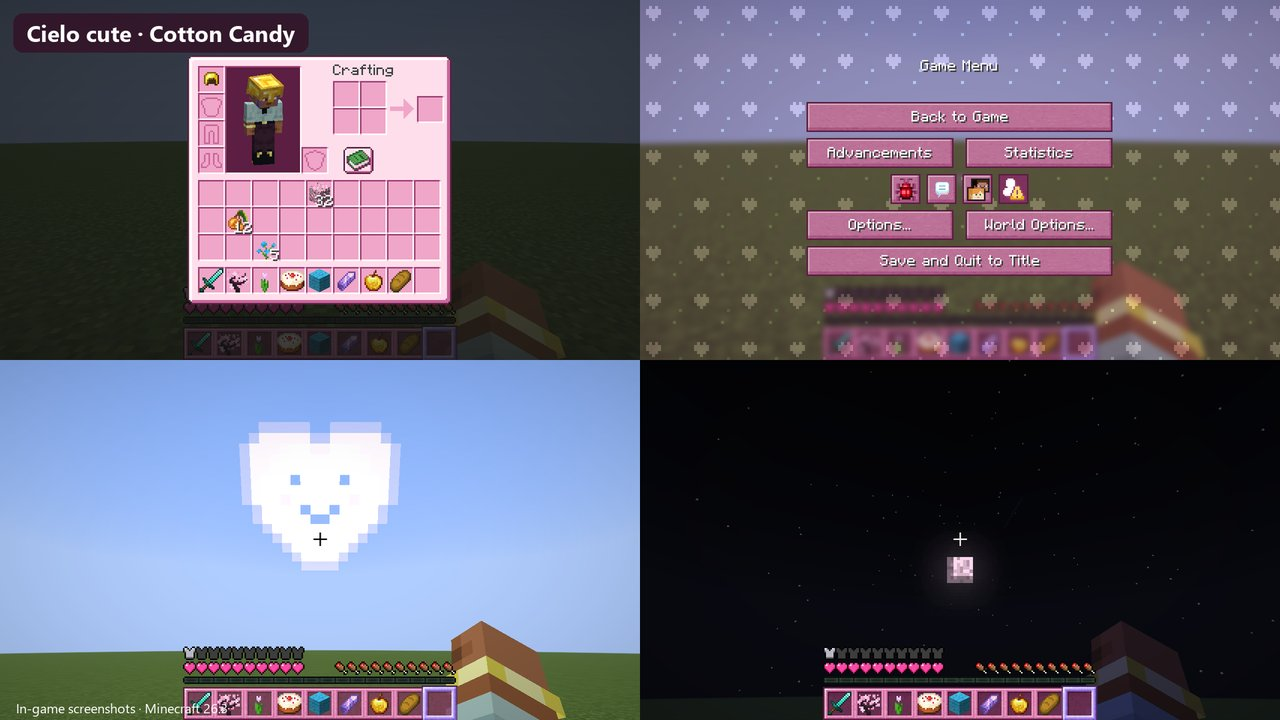
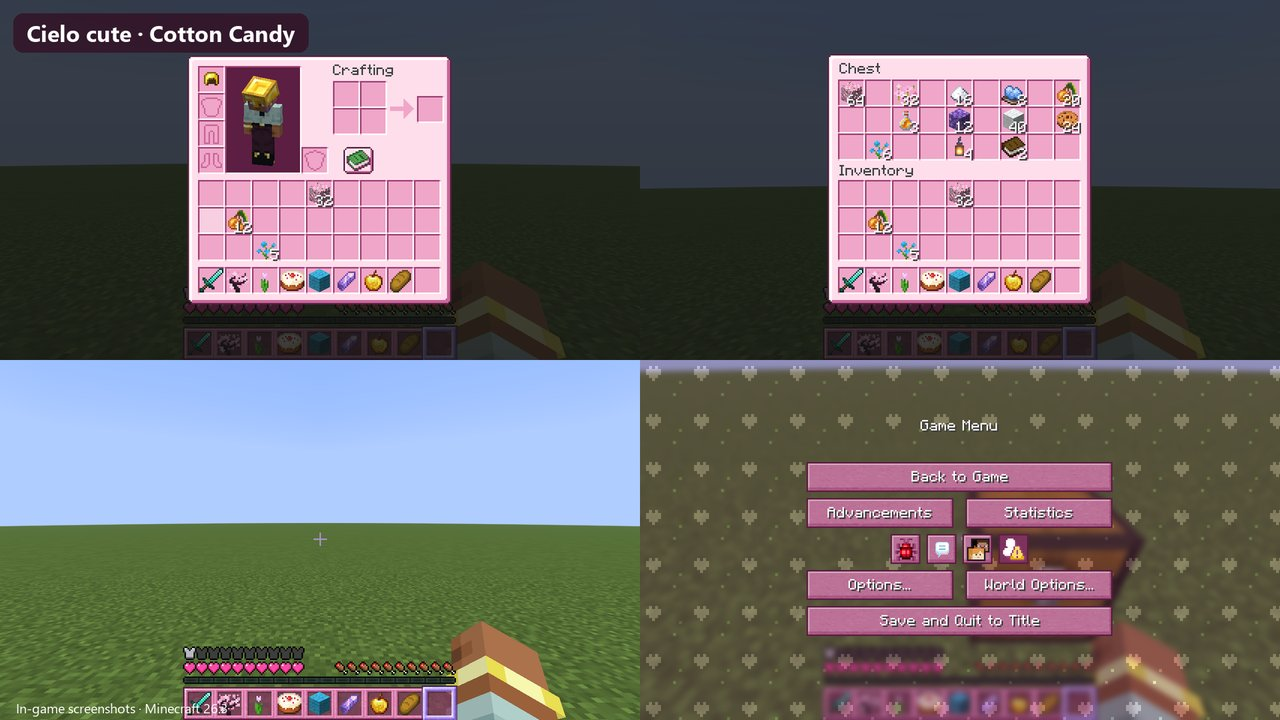
Cielo cute 2.1: solo la interfaz

diff --git a/cielo-cute/index.html b/cielo-cute/index.html
@@ -57,8 +57,8 @@
             <div class="pj-text">
                 <p class="badge mc"><svg><use href="#i-cube"/></svg>Minecraft · <span lang="es">paquete de texturas</span><span lang="en">resource pack</span></p>
                 <h1>Cielo cute</h1>
-<p class="lead" lang="es">Tu inventario, tus botones y tu barra rápida en 18 colores de cielo, con un sol con carita.</p>
-<p class="lead" lang="en">Your inventory, buttons and hotbar in 18 sky colors, with a smiling sun.</p>
+<p class="lead" lang="es">Tu inventario, tus botones y tu barra rápida en 18 colores de cielo.</p>
+<p class="lead" lang="en">Your inventory, buttons and hotbar in 18 sky colors.</p>
                 <ul class="stack"><li>Python</li><li>pixel art</li><li>26.3</li><li>1.21.1</li><li>18 temas</li></ul>
                 <div class="cta">
                     <a class="btn primary" href="https://github.com/ccrccne/cielo-cute/releases/latest" target="_blank" rel="noopener"><span lang="es">Descargar</span><span lang="en">Download</span> ↗</a>
@@ -69,13 +69,13 @@
         </section>
 
         <section class="pj-about">
-<p class="pj-intro" lang="es">Un paquete de texturas que cambia el gris de la interfaz de Minecraft por colores de cielo. Hay 18 temas en 5 colecciones (Pastel Dreams, Celestial, Fantasy, Minimal Elegance y Golden Hour), y cada uno trae su sol con carita, una luna a juego y un dibujito en el fondo de los menús. No toca los bloques ni los objetos.</p>
-<p class="pj-intro" lang="en">A resource pack that swaps Minecraft's grey interface for sky colors. There are 18 themes in 5 collections (Pastel Dreams, Celestial, Fantasy, Minimal Elegance and Golden Hour), each with its own smiling sun, a matching moon and a little pattern behind the menus. Blocks and items stay the same.</p>
+<p class="pj-intro" lang="es">Un paquete de texturas que cambia el gris de la interfaz de Minecraft por colores de cielo. Hay 18 temas en 5 colecciones (Pastel Dreams, Celestial, Fantasy, Minimal Elegance y Golden Hour), y cada uno trae un dibujito en el fondo de los menús. Solo cambia la interfaz: los bloques, el cielo, el sol y la luna se quedan igual.</p>
+<p class="pj-intro" lang="en">A resource pack that swaps Minecraft's grey interface for sky colors. There are 18 themes in 5 collections (Pastel Dreams, Celestial, Fantasy, Minimal Elegance and Golden Hour), each with a little pattern behind the menus. Only the interface changes: blocks, the sky, the sun and the moon stay the same.</p>
             <div class="feats">
                 <div class="card feat"><svg class="feat-star"><use href="#star"/></svg><h3><span lang="es">18 temas</span><span lang="en">18 themes</span></h3><p lang="es">De Cotton Candy a Starry Night, cada uno con su personalidad.</p>
 <p lang="en">From cotton candy pink to midnight blue, each with its own personality.</p></div>
-                <div class="card feat"><svg class="feat-star"><use href="#star"/></svg><h3><span lang="es">Sol con carita</span><span lang="en">Smiling sun</span></h3><p lang="es">Redondo, corazón, estrella o flor según el tema, y la luna a juego.</p>
-<p lang="en">Round, heart, star or flower depending on the theme, with a matching moon.</p></div>
+                <div class="card feat"><svg class="feat-star"><use href="#star"/></svg><h3><span lang="es">Inventarios y cofres</span><span lang="en">Inventories and chests</span></h3><p lang="es">El inventario, los cofres, hornos y todos los contenedores, con su relieve de siempre.</p>
+<p lang="en">Your inventory, chests, furnaces and every container, with the usual shading.</p></div>
                 <div class="card feat"><svg class="feat-star"><use href="#star"/></svg><h3><span lang="es">Menús decorados</span><span lang="en">Decorated menus</span></h3><p lang="es">Estrellas, corazones, flores o burbujas detrás de los botones.</p>
 <p lang="en">Stars, hearts, flowers or bubbles behind the buttons.</p></div>
                 <div class="card feat"><svg class="feat-star"><use href="#star"/></svg><h3><span lang="es">Fácil de leer</span><span lang="en">Easy to read</span></h3><p lang="es">Cada tema está revisado para que los títulos y botones se lean bien.</p>

diff --git a/index.html b/index.html
@@ -129,8 +129,8 @@
                     <div class="info">
                         <p class="badge mc"><svg><use href="#i-cube"/></svg>Minecraft · <span lang="es">texturas</span><span lang="en">resource pack</span></p>
                         <h3>Cielo cute</h3>
-                        <p lang="es">Mi paquete de texturas: la interfaz de Minecraft en 18 colores de cielo, con un sol con carita, luna a juego y menús decorados.</p>
-                        <p lang="en">My resource pack: Minecraft's interface in 18 sky colors, with a smiling sun, matching moon and decorated menus.</p>
+                        <p lang="es">Mi paquete de texturas: la interfaz de Minecraft en 18 colores de cielo, con menús decorados.</p>
+                        <p lang="en">My resource pack: Minecraft's interface in 18 sky colors, with decorated menus.</p>
                         <ul class="stack"><li>Python</li><li>pixel art</li><li>26.3</li><li>1.21.1</li></ul>
                         <p class="links">
                             <a class="link more-link" href="cielo-cute/"><span lang="es">Ver más</span><span lang="en">See more</span> →</a>
